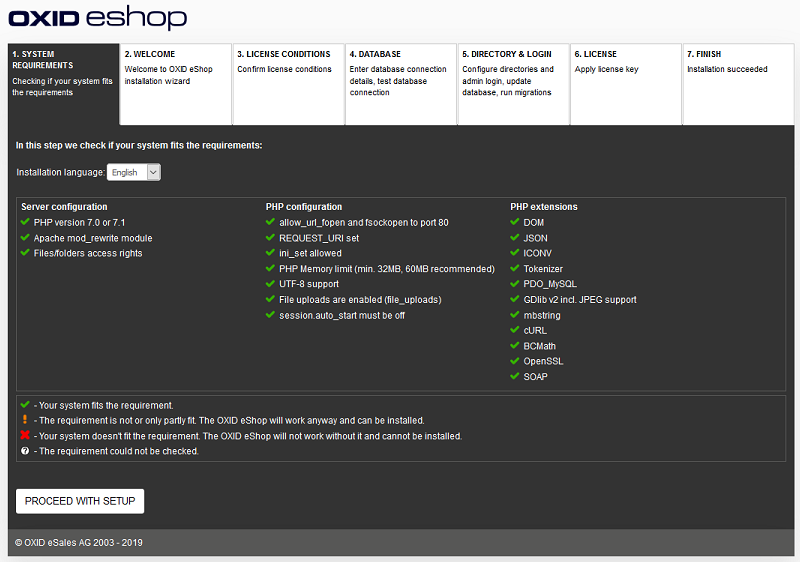
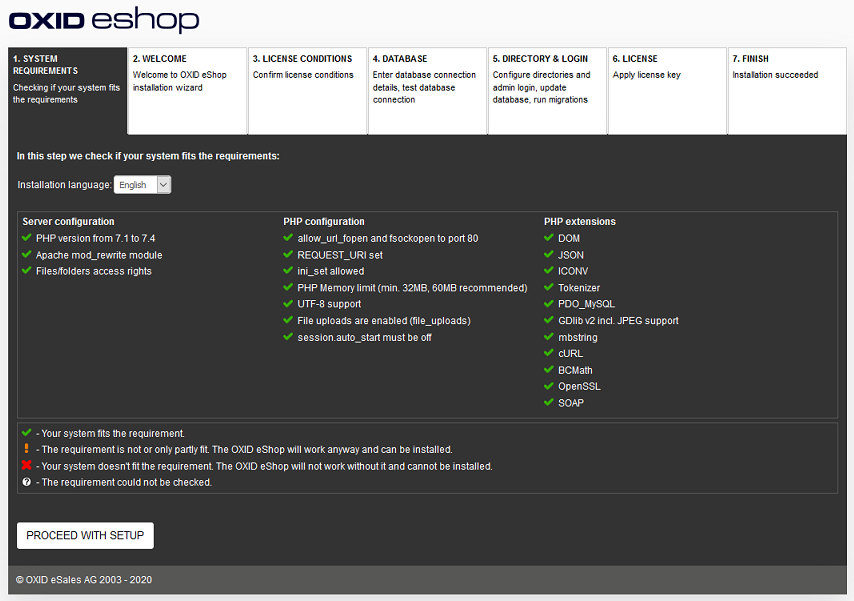
Updated screenshot from setup

diff --git a/installation/new-installation/new-installation.rst b/installation/new-installation/new-installation.rst
@@ -1,12 +1,12 @@
 New installation
 ================
 
-This section tells you how to install OXID eShop 6.1. There is one decisive change compared to shop versions 4 and 5: The installation is no longer based on installation packages. The files required for the shop are provided by Composer, a dependency manager for PHP. After that, you can run the web-based setup and install the shop as usual.
+This section tells you how to install OXID eShop 6.2. The installation is no longer based on installation packages. The files required for the shop are provided by Composer, a dependency manager for PHP. After that, you can run the web-based setup and install the shop as usual.
 
 .. image:: ../../media/screenshots/oxbaae01.png
     :alt: Setup, Step 1
     :class: no-shadow
-    :height: 532
+    :height: 457
     :width: 650
 
 The installation guide in English can be found in the developer documentation: `<https://docs.oxid-esales.com/developer/en/6.1/getting_started/installation/index.html>`_.
@@ -15,7 +15,7 @@ The installation guide in English can be found in the developer documentation: `
 
 Server und system requirements
 ------------------------------
-**Contents**: server, shared hosting, managed server, server farm with load balancing and database cluster, Linux, web server, Apache 2.2 + 2.4, MySQL 5.5 + 5.7, PHP 7.0 and 7.1, Composer, OpenSSL |br|
+**Contents**: server, shared hosting, managed server, server farm with load balancing and database cluster, Linux, web server, Apache 2.2 + 2.4, MySQL 5.5 + 5.7, MariaDB 10.4, PHP from 7.1 to 7.4, Composer, OpenSSL |br|
 :doc:`Read article <server-and-system-requirements>` |link|
 
 Preparing for installation
@@ -32,5 +32,6 @@ Completing installation
 -----------------------
 **Contents**: checking deletion of the setup directory, setting file and directory permissions, write permissions for /out/pictures, /out/media, /log, /export, /tmp, write protection for .htaccess, config.inc.php  |br|
 :doc:`Read article <completing-installation>` |link|
+
 
 .. Intern: oxbaae, Status:
